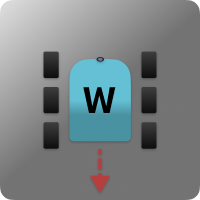
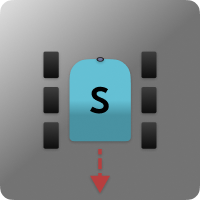
updating buttons to show turns

Changed region(s): [[0.42, 0.42, 0.6, 0.57]]

diff --git a/templates/index.html b/templates/index.html
@@ -101,19 +101,19 @@
         <!-- First row of buttons -->
         <div class="d-pad-row">
             <button class="d-pad-button" onclick="sendCommand('w')">
-                        <img src="../static/img/Forward.png" alt="Forward" width="150" />
+                        <img src="../static/img/forward.png" alt="Forward" width="150" />
                     </button>
                 </div>
                 <!-- Second row of buttons -->
                 <div class="d-pad-row">
                     <button class="d-pad-button" onclick="sendCommand('a')">
-                        <img src="../static/img/Forward.png" alt="Left" width="150" />
+                        <img src="../static/img/bigleft.png" alt="Left" width="150" />
                     </button>
                     <button class="d-pad-button" onclick="sendCommand('q')">
-                        <img src="../static/img/Forward.png" alt="Stop" width="150" />
+                        <img src="../static/img/stop.png" alt="Stop" width="150" />
                     </button>
                     <button class="d-pad-button" onclick="sendCommand('d')">
-                        <img src="../static/img/Forward.png" alt="Right" width="150" />
+                        <img src="../static/img/bigright.png" alt="Right" width="150" />
                     </button>
                 </div>
                 <!-- Third row of buttons -->
